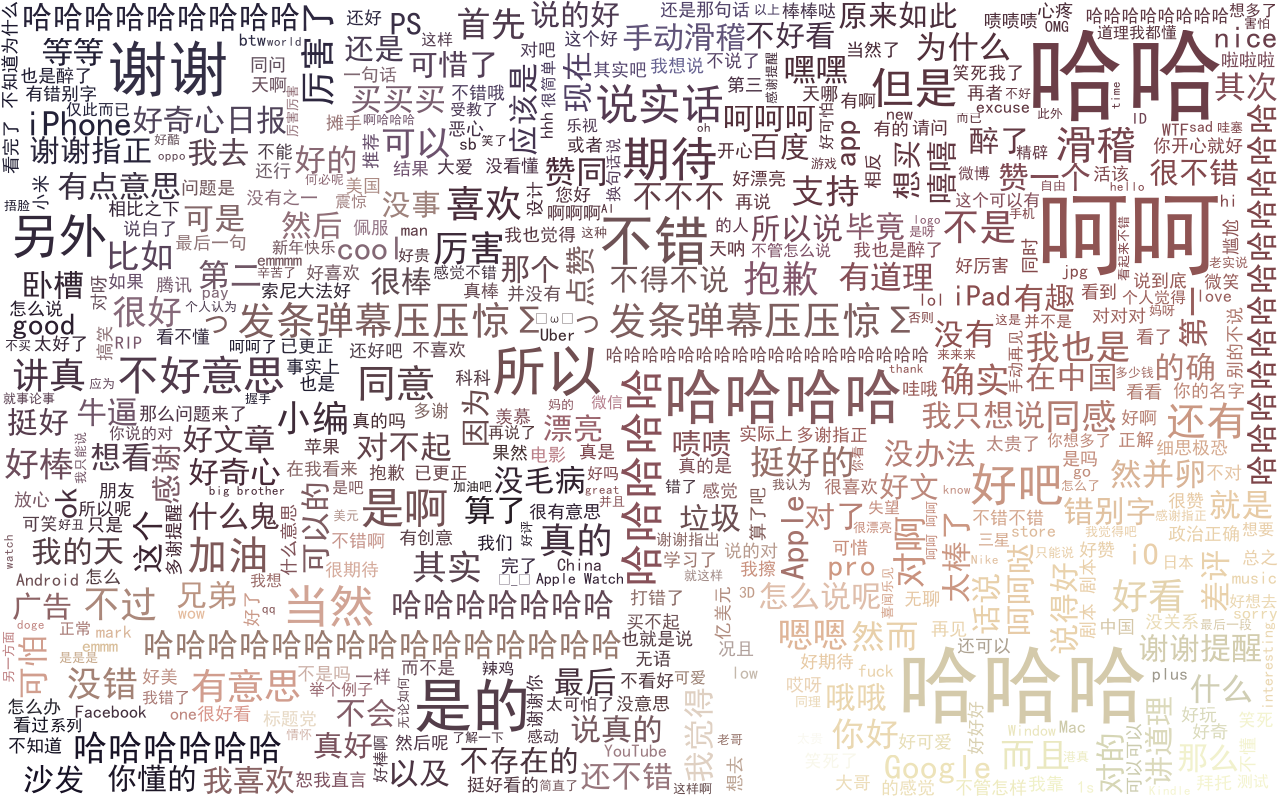
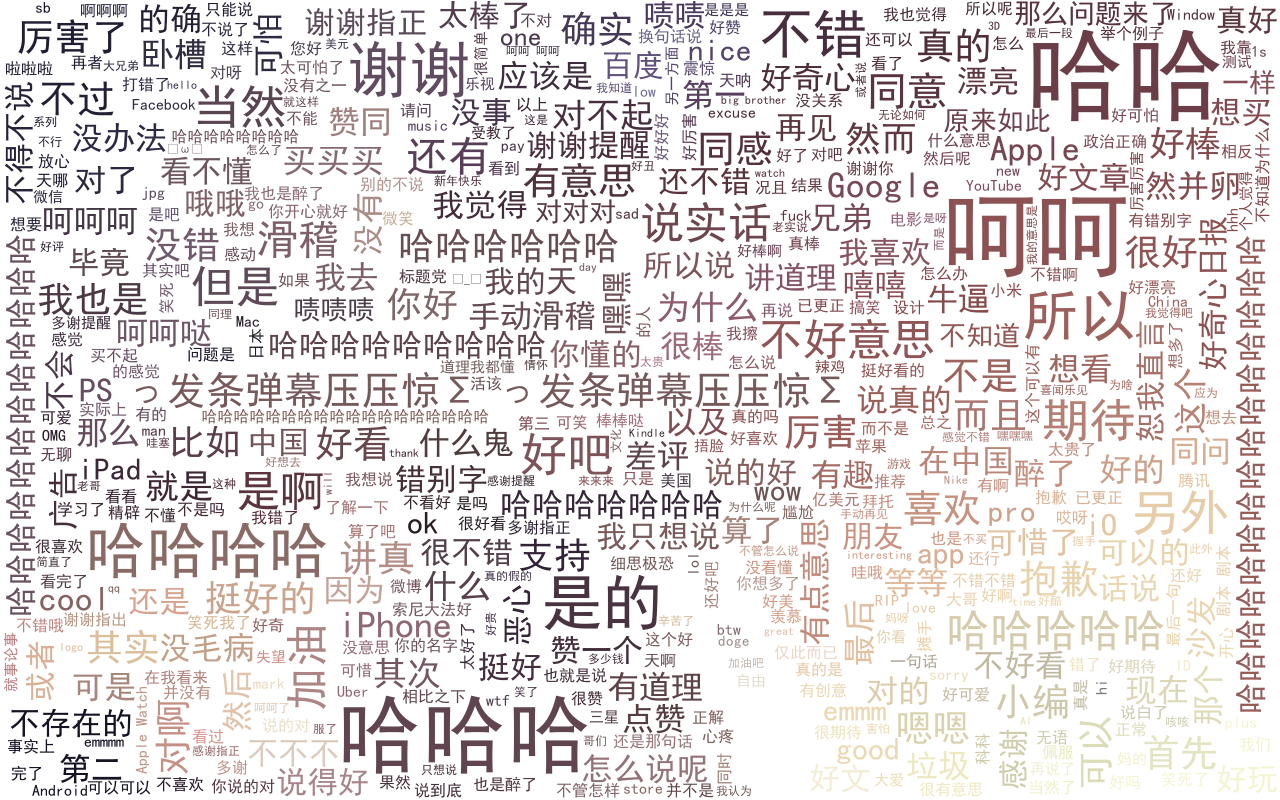
更新

diff --git a/qdaily-wordcloud.py b/qdaily-wordcloud.py
@@ -1,0 +1,30 @@
+# -*- coding: utf-8 -*-
+"""
+Created on Wed Jun 13 20:24:05 2018
+
+@author: peter
+"""
+
+import matplotlib.pyplot as plt
+from wordcloud import WordCloud, ImageColorGenerator
+from scipy.misc import imread
+import sqlite3
+conn = sqlite3.connect('qdaily.db')
+wordlist = []
+for i in conn.execute("select comment from comments").fetchall():
+    wordlist.append(i[0])
+wl_space_split = " ".join(wordlist)
+mask_png = imread("mask.jpeg")
+my_wordcloud = WordCloud(font_path=r"C:\Windows\Fonts\simhei.ttf",
+                         background_color="white",  # 背景颜色
+                         max_words=500,  # 词云显示的最大词数
+                         max_font_size=100,  # 字体最大值
+                         random_state=42,
+                         mask=mask_png,
+                         width=1000, height=860, margin=2).generate(wl_space_split)
+image_colors = ImageColorGenerator(mask_png)
+plt.figure()
+plt.imshow(my_wordcloud.recolor(color_func=image_colors))
+plt.axis("off")
+plt.show()
+my_wordcloud.to_file("wordcloud.png")

diff --git a/qdaily-comment.py b/qdaily-comment.py
@@ -7,12 +7,11 @@ Created on Wed Jun 13 20:30:20 2018
 
 import matplotlib.pyplot as plt
 import sqlite3
-
 conn = sqlite3.connect(r"qdaily.db")
 url_id = conn.execute("select id from qdaily order by id;").fetchall()
 comment = conn.execute("select comments from qdaily order by id;").fetchall()
-plt.title("id与分享数关系图", fontproperties='SimHei', fontsize=25)
+plt.title("id与评论数关系图", fontproperties='SimHei', fontsize=25)
 plt.xlabel("id", fontproperties='SimHei', fontsize=15)
-plt.ylabel("分享数", fontproperties='SimHei', fontsize=15)
-plt.plot(url_id, comment, 'o')
+plt.ylabel("comment", fontproperties='SimHei', fontsize=15)
+plt.plot(url_id, comment, '-r')
 conn.close()

diff --git a/README.md b/README.md
@@ -1,36 +1,162 @@
-# 爬取好奇心日报
+# 用Python爬取好奇心日报
 ## 本项目最后更新于2018-7-24，可能会因为没有更新而失效。如已失效或需要修正，请提issue！
-因为我是最近才关注好奇心日报的，感觉好奇心日报从14年创办以来许多的
-好文章我都没看，所以打算找出这些好文章。  
-一般来说一篇好文的分享数或者评论数都比较多，所以我只要爬下
-好奇心日报的每篇文章的评论和分享数就行了。
+
+## 前言
+
+因为我是最近才关注好奇心日报的，感觉之前的许多好文章我都没看，所以打算找出这些好文章。  
+一般来说一篇好文的分享数或者评论数比较多，所以我只要爬下
+好奇心日报的每篇文章的评论数和分享数就行了。
 
 ## 准备工作
+
 第一步是发现好奇心日报的文章地址编码是按数字递增的，例如：
 http://www.qdaily.com/articles/38425.html
-很快就可以发现标题，分享数，文章发布日期都在页面里，
-但是评论数不在页面中  
-然后我使用谷歌浏览器的F12的network功能，发现了评论
-是通过json数据获得的，地址类似：
-http://www.qdaily.com/comments/article/38425/0.json
-然后爬虫写起来就比较容易了  
-看到那么多评论，于是我顺便把评论的内容也爬下来了  
-## 结果展示
-先是根据文章分享数排序：    
-![share.png](share.png)    
-然后评论的词云显示的结果：   
-![wordcloud.png](wordcloud.png)    
-然后是文章id与分享数关系图：    
-![id-share.png](id-share.png)    
-可以看出越到后面，平均每篇文章的分享数就越多，可以反映出好奇心日报的用户数变多  
+截止今天，好奇心日报的文章编码已经从1到55613了，共5万篇文章。
+然后我发现文章的标题，分享数和文章发布日期都写死在页面里，但是评论数不在页面中   
+为了找到评论数，我使用谷歌浏览器的F12的network功能，发现了评论是通过json数据获得的，地址类似：
+http://www.qdaily.com/comments/article/38425/0.json    
+看到json的数据自带评论，于是我顺便把评论的内容也爬下来了，顺便做一个评论的词云    
 
-## 代码
-**爬虫代码在 [qdaily-spider](qdaily-spider.py)**    
-**生成词云代码在 [qdaily-comment](qdaily-comment.py)**    
-**生成文章id与分享数关系图的代码在 [qdaily-share](qdaily-share.py)**    
-爬虫代码：  
-![code1.png](code1.png)  
-![code2.png](code2.png)  
-![code3.png](code3.png)  
-![code4.png](code4.png)  
-![code5.png](code5.png)  
+## 爬虫代码编写
+先写建数据库的代码   
+```python
+def create():
+     # 创建数据库
+    global conn
+    conn = sqlite3.connect('qdaily.db')
+    conn.execute("""
+                create table if not exists qdaily(
+                id INTEGER PRIMARY KEY ,
+                title varchar DEFAULT NULL,
+                sharenum int DEFAULT NULL,
+                date DATE DEFAULT NULL,
+                comments int DEFAULT NULL)""")
+    conn.execute("""
+                create table if not exists comments(
+                id INTEGER PRIMARY KEY ,
+                url_id int DEFAULT NULL,
+                comment varchar DEFAULT NULL)""")
+```
+然后写爬取的核心代码,在这段代码里，我使用了requests库来获取网页。         
+```python
+def func(id=0):
+    if id == 0:
+        print("id=0,error!")
+        return
+    real_url = url+str(id)+".html"
+    try:
+        r1 = requests.get(real_url, timeout=10)
+        r1.encoding = r1.apparent_encoding
+        demo = r1.text
+        if "页面出错" in demo:
+            return
+        soup = BeautifulSoup(demo, "html.parser")
+        sharenum = int(soup.find('span', 'num').string)
+        title = soup.find('h2', 'title').string
+        date = soup.find(
+            'span', 'date smart-date').attrs['data-origindate'][:-15]
+        comment_url = "http://www.qdaily.com/comments/article/" + \
+            str(id)+"/0.json"
+        r2 = requests.get(comment_url, headers=head, timeout=10).text
+        jsDict = json.loads(r2)
+        feeds = jsDict['data']['feeds']
+        comments = jsDict['data']['total_count']
+        tuple1 = (id, title, sharenum, date, comments)
+        while jsDict['data']["has_more"]:
+            more_comment = jsDict['data']['last_key']
+            more_comment_url = "http://www.qdaily.com/comments/article/" + \
+                str(id)+"/"+str(int(more_comment))+".json"
+            r3 = requests.get(more_comment_url, headers=head, timeout=10).text
+            jsDict = json.loads(r3)
+            for i in jsDict['data']['feeds']:
+                feeds.append(i)
+        save(tuple1, feeds)
+    except Exception as e:
+        print()
+        print(str(id)+"error!")
+        print(e)
+```
+接着写一个保存数据到数据库的函数：
+```python
+def save(tuple1=None, list1=None):
+    global conn
+    if tuple1 == None:
+        return
+    command1 = "insert into qdaily \
+             (id,title,sharenum,date,comments) values (?,?,?,?,?);"
+    command2 = "insert into comments\
+             (url_id,comment) values (?,?);"
+    conn.execute(command1, tuple1)
+    for i in list1:
+        temp = (tuple1[0], i['content'])
+        conn.execute(command2, temp)
+        if i['child_comments'] != []:
+            for j in i['child_comments']:
+                temp = (tuple1[0], j['content'])
+                conn.execute(command2, temp)
+    conn.commit()
+```
+**完整的爬虫代码在 [qdaily-spider](https://github.com/zhang0peter/qdaily-spider/blob/master/qdaily-spider.py)**    
+
+## 爬虫结果展示
+
+先是根据文章分享数排序：     
+![share.png](share.png)     
+
+然后是根据文章的评论数排序：  
+![comment](comment.png)  
+
+## 好奇心日报文章id与评论数的关系
+我感觉好奇心日报用的人越来越多了，那么随着id的增加，文章的平均评论数应该也会增加。  
+代码如下：
+```python
+import matplotlib.pyplot as plt
+import sqlite3
+conn = sqlite3.connect(r"qdaily.db")
+url_id = conn.execute("select id from qdaily order by id;").fetchall()
+comment = conn.execute("select comments from qdaily order by id;").fetchall()
+plt.title("id与评论数关系图", fontproperties='SimHei', fontsize=25)
+plt.xlabel("id", fontproperties='SimHei', fontsize=15)
+plt.ylabel("comment", fontproperties='SimHei', fontsize=15)
+plt.plot(url_id, comment, '-r')
+conn.close()
+```
+画出的图如下：  
+![id-comment.png](id-comment.png)    
+可以看出越到后面，平均每篇文章的分享数就越多，反映出好奇心日报的用户数变多  
+**生成文章id与评论数关系图的完整代码在 [qdaily-id-comment](https://github.com/zhang0peter/qdaily-spider/blob/master/qdaily-comment.py)**    
+
+## 根据评论生成词云
+既然我把评论也爬了下来，那么我就写一个根据评论生成词云的代码  
+```python
+import matplotlib.pyplot as plt
+from wordcloud import WordCloud, ImageColorGenerator
+from scipy.misc import imread
+import sqlite3
+conn = sqlite3.connect('qdaily.db')
+wordlist = []
+for i in conn.execute("select comment from comments").fetchall():
+    wordlist.append(i[0])
+wl_space_split = " ".join(wordlist)
+mask_png = imread("mask.jpeg")
+my_wordcloud = WordCloud(font_path=r"C:\Windows\Fonts\simhei.ttf",
+                         background_color="white",  # 背景颜色
+                         max_words=500,  # 词云显示的最大词数
+                         max_font_size=100,  # 字体最大值
+                         random_state=42,
+                         mask=mask_png,
+                         width=1000, height=860, margin=2).generate(wl_space_split)
+image_colors = ImageColorGenerator(mask_png)
+plt.figure()
+plt.imshow(my_wordcloud.recolor(color_func=image_colors))
+plt.axis("off")
+plt.show()
+my_wordcloud.to_file("wordcloud.png")
+```
+生成的词云结果如下：  
+![wordcloud.png](wordcloud.png)    
+    
+
+**生成词云代码在 [qdaily-comment](https://github.com/zhang0peter/qdaily-spider/blob/master/qdaily-comment.py)**    
+
+
